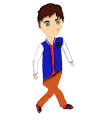
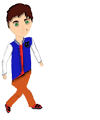
Codigo

diff --git a/Codigo y Pseudo-codigo/Slick2DTest/src/Slick2DTest/MinijuegoLlave.java b/Codigo y Pseudo-codigo/Slick2DTest/src/Slick2DTest/MinijuegoLlave.java
@@ -42,7 +42,7 @@ public class MinijuegoLlave extends BasicGameState{
             boxpersonaje = new Rectangle(posX,posY,38,102);
             
             Image[] walkRight = {new Image("res/A.ANIM_1_MINIGAME.png"),new Image("res/A.ANIM_2_MINIGAME.png"),new Image("res/A.ANIM_3_MINIGAME.png"),new Image("res/A.ANIM_4_MINIGAME.png"),new Image("res/A.ANIM_5_MINIGAME.png"),new Image("res/A.ANIM_6_MINIGAME.png"),new Image("res/A.ANIM_7_MINIGAME.png")};
-            Image[] walkLeft = {new Image("res/A.ANIM_1_MINIGAME.png"),new Image("res/A.ANIM_2_MINIGAME.png"),new Image("res/A.ANIM_3_MINIGAME.png"),new Image("res/A.ANIM_4_MINIGAME.png"),new Image("res/A.ANIM_5_MINIGAME.png"),new Image("res/A.ANIM_6_MINIGAME.png"),new Image("res/A.ANIM_7_MINIGAME.png")};
+            Image[] walkLeft = {new Image("res/A.ANIM_1_MINIGAME_OPUESTA.png"),new Image("res/A.ANIM_2_MINIGAME_OPUESTA.png"),new Image("res/A.ANIM_3_MINIGAME_OPUESTA.png"),new Image("res/A.ANIM_4_MINIGAME_OPUESTA.png"),new Image("res/A.ANIM_5_MINIGAME_OPUESTA.png"),new Image("res/A.ANIM_6_MINIGAME_OPUESTA.png"),new Image("res/A.ANIM_7_MINIGAME_OPUESTA.png")};
             Image[] nowalk = {new Image("res/A.ANIM_1_MINIGAME.png"),new Image("res/A.ANIM_1_MINIGAME.png"),new Image("res/A.ANIM_1_MINIGAME.png"),new Image("res/A.ANIM_1_MINIGAME.png"),new Image("res/A.ANIM_1_MINIGAME.png"),new Image("res/A.ANIM_1_MINIGAME.png"),new Image("res/A.ANIM_1_MINIGAME.png")};
             
             moveRight = new Animation(walkRight, duration, true);
@@ -63,7 +63,7 @@ public class MinijuegoLlave extends BasicGameState{
             character = moveRight;
             posicionX += delta * .5f;
             boxpersonaje.setX(posicionX);
-            if(posicionX>1005){
+            if(posicionX>1050){
                 posicionX -= delta * .5f;
                 boxpersonaje.setX(posicionX);
             }
@@ -72,7 +72,7 @@ public class MinijuegoLlave extends BasicGameState{
             character = moveLeft;
             posicionX -= delta * .5f;
             boxpersonaje.setX(posicionX);
-            if(posicionX<250){
+            if(posicionX<280){
                 posicionX += delta * .5f;
                 boxpersonaje.setX(posicionX);
             }
@@ -82,7 +82,7 @@ public class MinijuegoLlave extends BasicGameState{
         }
         
         timePassed += delta;
-        if (timePassed > 500) {
+        if (timePassed > 800) {
             timePassed = 0;
             balls.add(new Circle(280+random.nextInt(755),84,10));
         }
@@ -98,20 +98,23 @@ public class MinijuegoLlave extends BasicGameState{
                 balls.remove(i);
                 Principal.puntuacionMinijuegoLlave++;
             }
-        }
-        if (Principal.vidasMinijuegoLlave <= 0) {
-            sbg.enterState(10);
-             for (int i = balls.size()-1; i >= 0; i--) {
-            Circle c = balls.get(i);
-            if (c.getCenterY() > 84) {
-                balls.remove(i);
-                
-            }
-        }
-         if (Principal.puntuacionMinijuegoLlave >= 20) {
+            if (Principal.puntuacionMinijuegoLlave > 19) {
             sbg.enterState(11);
         }
+        
+        if (Principal.vidasMinijuegoLlave <= 0) {
+            sbg.enterState(10);
+            for (int j = balls.size()-1; j >= 0; j--) {
+            Circle b = balls.get(j);
+            if (c.getCenterY() > 84) {
+                balls.remove(j);
+            }
         }
+         
+        }
+        }
+        
+        
     }
     
     @Override
@@ -119,7 +122,7 @@ public class MinijuegoLlave extends BasicGameState{
         this.habitacion.drawCentered(683,384);
         g.drawString(" "+posicionX +" "+posicionY,100,100);
         g.drawString("Estado 1", 10, 50);
-        g.setColor(Color.yellow);
+        g.setColor(Color.transparent);
         g.fill(boxpersonaje);
         this.character.draw(posicionX,posicionY);
         

diff --git a/Codigo y Pseudo-codigo/Slick2DTest/src/Slick2DTest/Principal.java b/Codigo y Pseudo-codigo/Slick2DTest/src/Slick2DTest/Principal.java
@@ -61,7 +61,7 @@ public class Principal extends StateBasedGame{
     }
   
     public Principal() throws SlickException {
-        super("Hellsingly");
+        super("Hellingly");
        
     }
 
@@ -139,6 +139,7 @@ public class Principal extends StateBasedGame{
        this.addState(new HabitacionFinal());
        this.addState(new Controls());
        this.addState(new Anillo());
+       //this.addState(new PreMinijuegoLlaves());
     }    
 
 }
